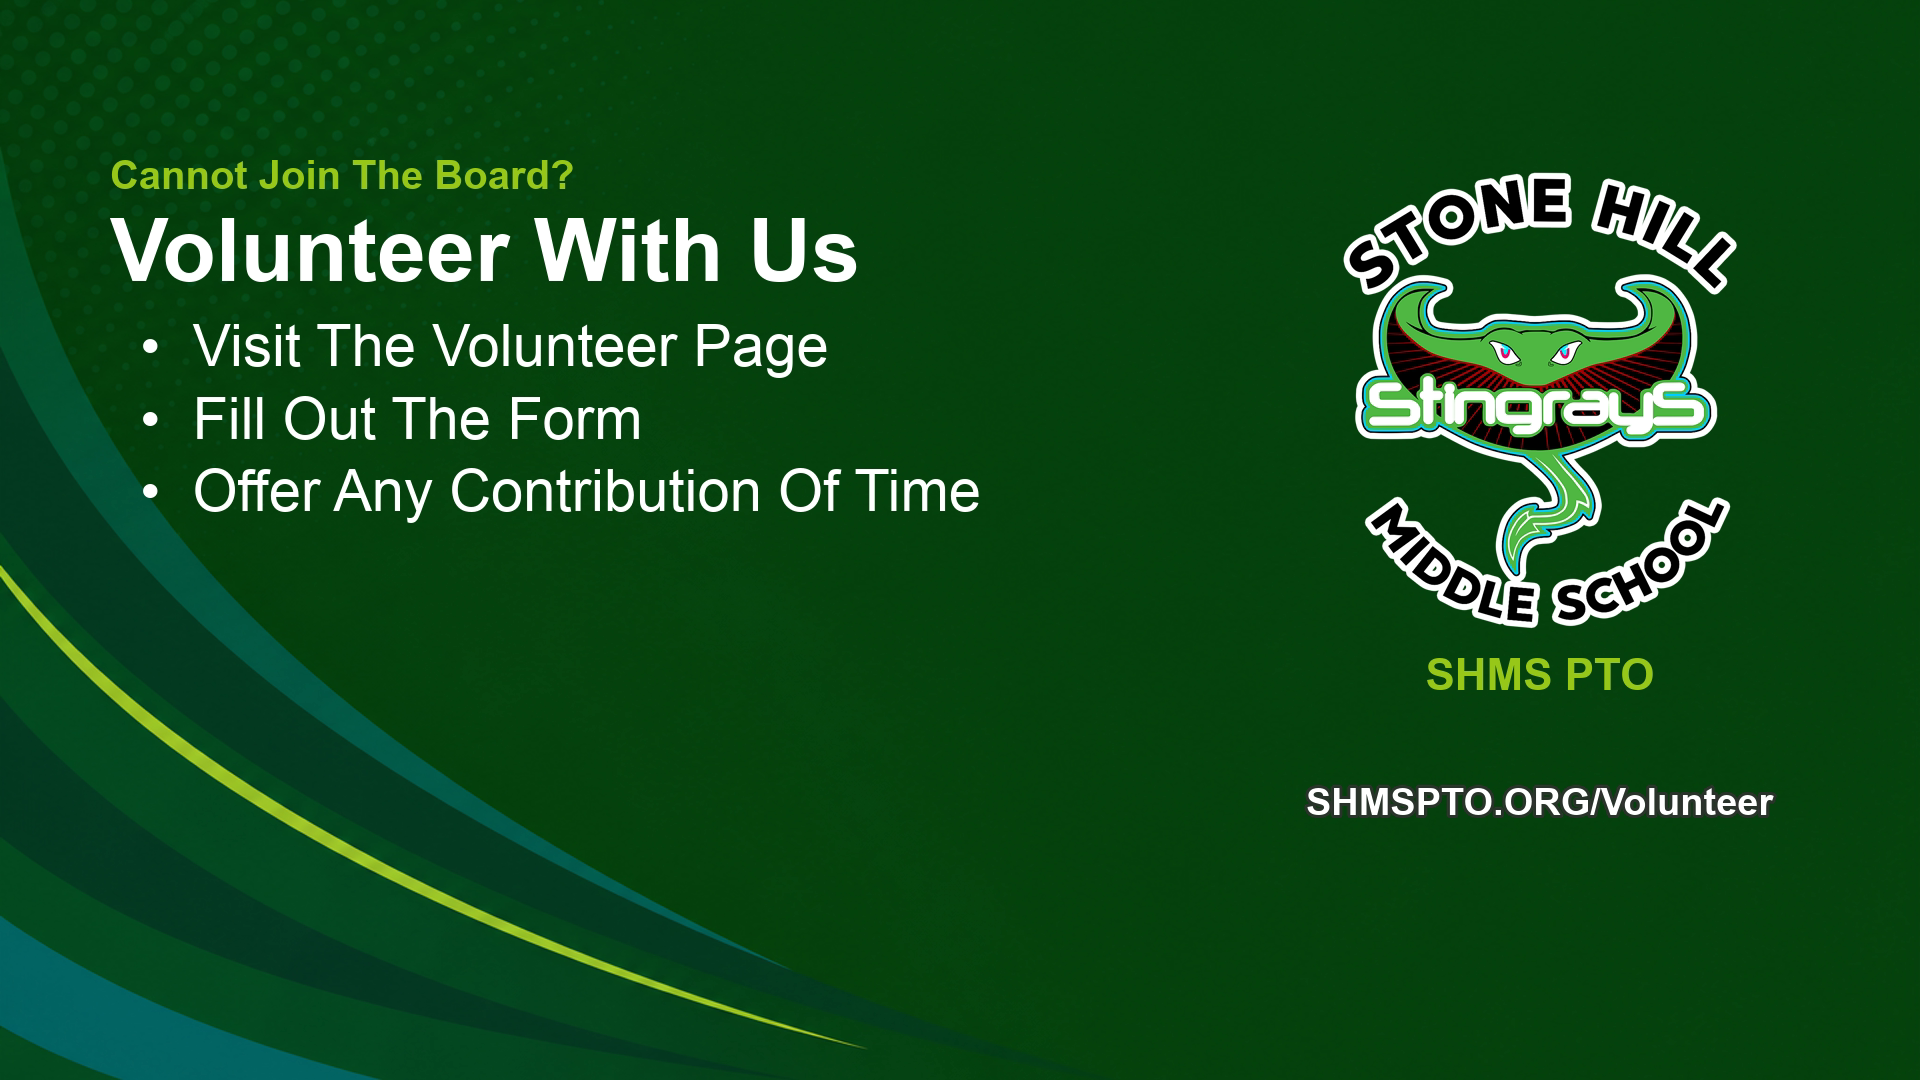
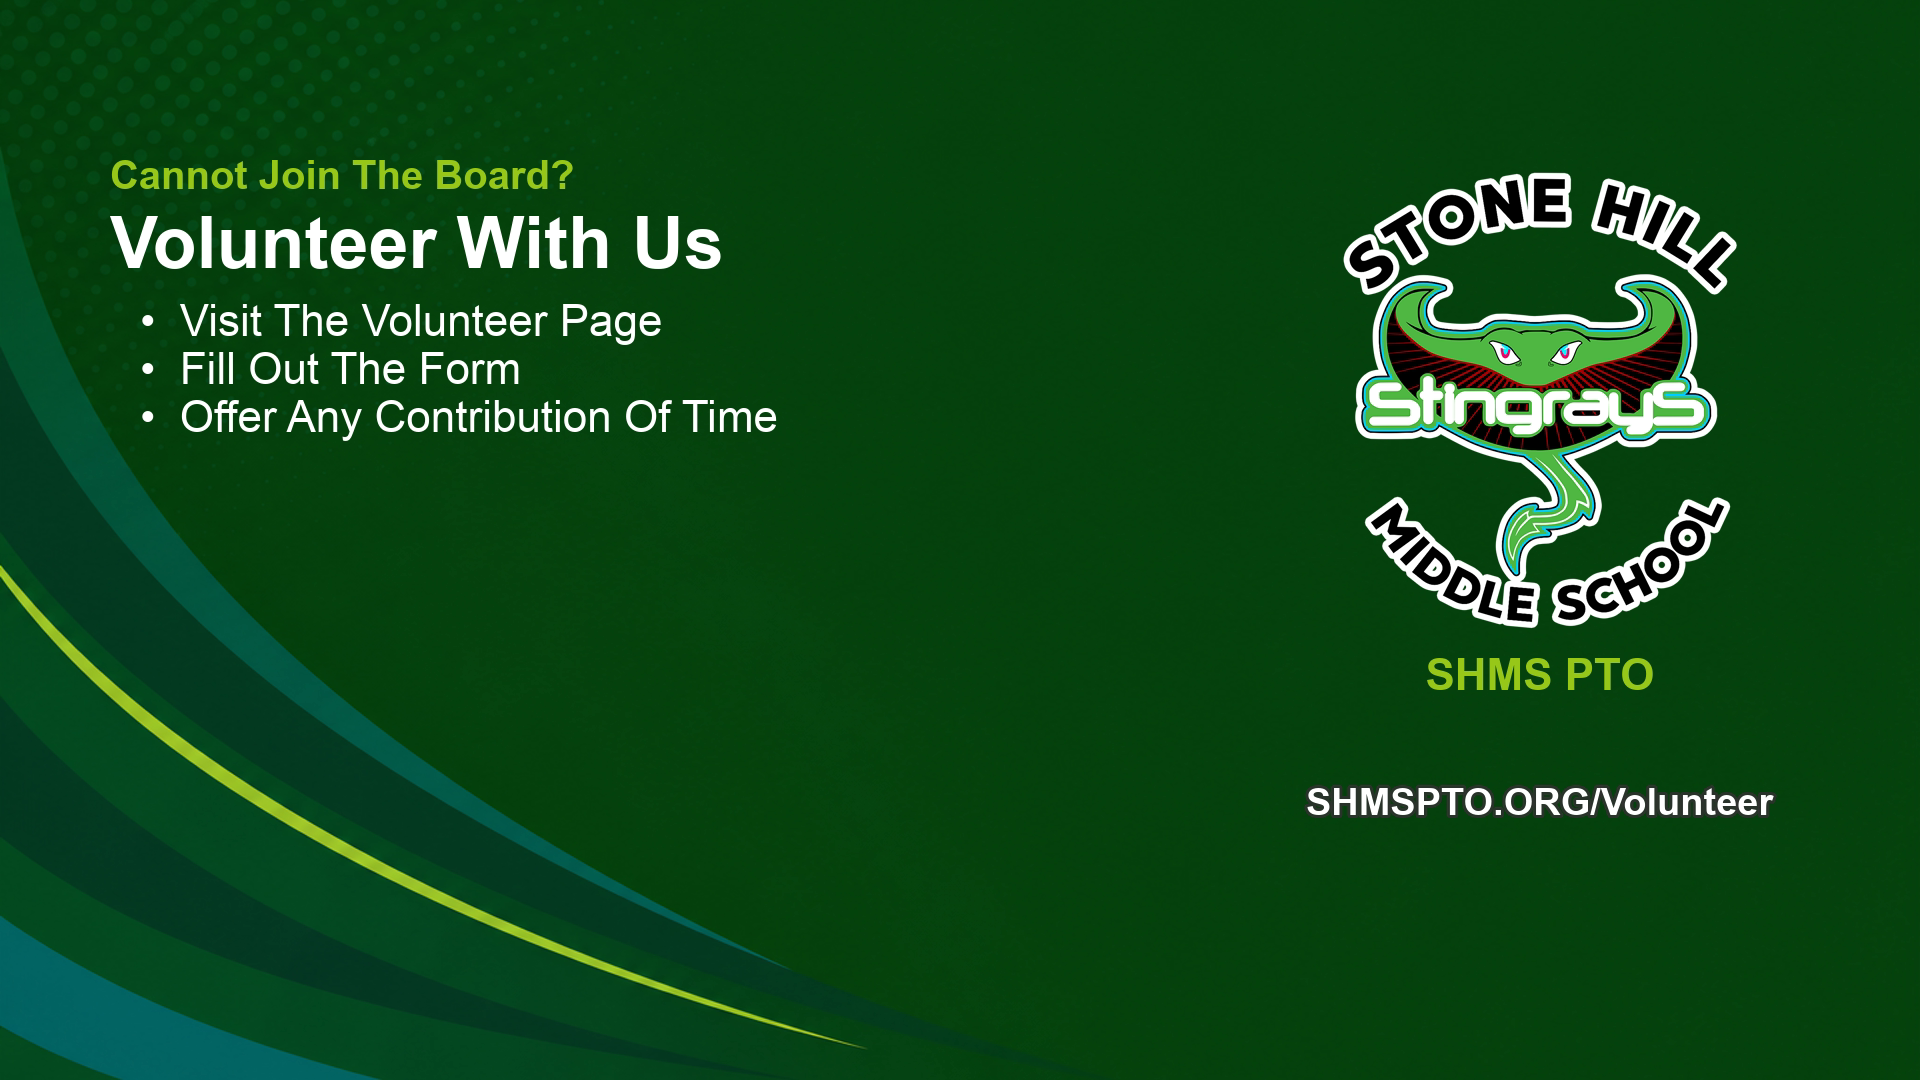
fix(board-recruit): universal type scale on every slide.
Same eyebrow/title/bullet/footer sizes frame-to-frame — no per-slide font scaling.

Changed region(s): [[0.0625, 0.1833, 0.5, 0.4889]]

diff --git a/promo-videos/scripts/assemble_board_recruit.js b/promo-videos/scripts/assemble_board_recruit.js
@@ -51,11 +51,19 @@ const PAD = 0.9;
 const TAIL_PAD = 1.2;
 
 /**
- * Left copy owns the open landscape (big, readable). Stay above wave crest.
- * At TEXT_X≈120, wave encroaches ~y520+; keep content under WAVE_SAFE_MAX_Y.
+ * Universal type scale — same sizes on every slide (no per-slide scaling).
+ * Sized so the densest slide (5 bullets) still clears the wave crest.
  */
 const TEXT_X = 110;
 const BULLET_X = 140;
+const TYPE_EYEBROW = 40;
+const TYPE_TITLE = 72;
+const TYPE_BULLET = 44;
+const TYPE_BRAND = 44;
+const TYPE_FOOTER = 38;
+const STEP_EYEBROW = 56;
+const STEP_TITLE = 88;
+const STEP_BULLET = 48;
 /** Bottom of glyphs must stay above this (wave crest at TEXT_X≈110) */
 const WAVE_SAFE_MAX_Y = 540;
 const CONTENT_MAX_Y = WAVE_SAFE_MAX_Y;
@@ -124,48 +132,35 @@ function makeSlide(outName, { eyebrow, title, bullets = [], footer }) {
   };
 
   addText('SHMS PTO', {
-    size: 44,
+    size: TYPE_BRAND,
     color: '0x98C818',
     x: `${LOGO_CX}-text_w/2`,
     y: LABEL_Y,
   });
 
-  // Left column — same top as logo; fill the frame (readable on phone)
+  // Left column — universal type, same top as logo
   let y = TEXT_TOP;
   if (eyebrow) {
-    addText(eyebrow, { size: 40, color: '0x98C818', x: TEXT_X, y });
-    y += 58;
+    addText(eyebrow, { size: TYPE_EYEBROW, color: '0x98C818', x: TEXT_X, y });
+    y += STEP_EYEBROW;
   }
-  // Dense lists keep a slightly smaller title so every bullet still fits
-  let titleSize = title.length > 28 ? 68 : title.length > 18 ? 78 : 88;
-  if (bullets.length >= 5) titleSize = Math.min(titleSize, 72);
   addText(title, {
-    size: titleSize,
+    size: TYPE_TITLE,
     color: 'white',
     x: TEXT_X,
     y,
   });
-  y += Math.round(titleSize * 1.2);
+  y += STEP_TITLE;
 
-  // Partition safe band so every bullet fits; role slides (≤3) get largest type
-  const slots = Math.max(bullets.length, 1);
-  const room = Math.max(CONTENT_MAX_Y - y, 120);
-  const bulletStep = Math.floor(room / slots);
-  const bulletSize = Math.min(
-    bullets.length <= 3 ? 58 : 48,
-    Math.max(40, bulletStep - 14),
-  );
   for (const b of bullets) {
-    // Glyph bottoms must clear the wave crest
-    if (y + bulletSize > CONTENT_MAX_Y) break;
-    addText(`•  ${b}`, { size: bulletSize, color: 'white', x: BULLET_X, y, bold: false });
-    y += bulletStep;
+    if (y + TYPE_BULLET > CONTENT_MAX_Y) break;
+    addText(`•  ${b}`, { size: TYPE_BULLET, color: 'white', x: BULLET_X, y, bold: false });
+    y += STEP_BULLET;
   }
   if (footer) {
-    // Under seal, dropped below SHMS PTO — clear of waves
     const tag = `v${n++}`;
     parts.push(
-      `[${last}]drawtext=fontfile=${fontB}:text='${esc(footer)}':fontsize=38:fontcolor=white:` +
+      `[${last}]drawtext=fontfile=${fontB}:text='${esc(footer)}':fontsize=${TYPE_FOOTER}:fontcolor=white:` +
       `borderw=3:bordercolor=black@0.8:x=${LOGO_CX}-text_w/2:y=${FOOTER_Y}[${tag}]`
     );
     last = tag;
